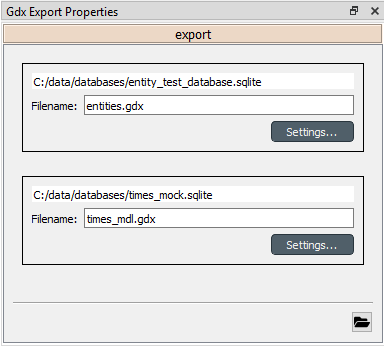
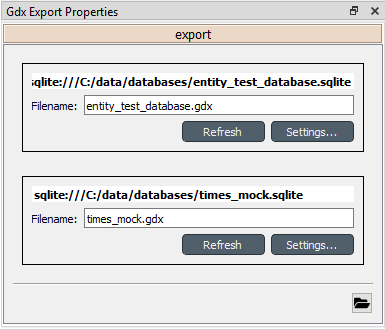
Update User Guide
Removed sections about installation of GAMS Python bindings as these are
not necessary anymore. Updated the Importing and exporting data page to
reflect some additional changes in *Gdx Export*.

Re #429

Changed region(s): [[0.0, 0.0, 1.0, 1.0], [0.0625, 0.4848, 0.9375, 0.5152]]

diff --git a/docs/source/data_import_export.rst b/docs/source/data_import_export.rst
@@ -59,8 +59,8 @@ and forwards file paths to project items downstream.
 If a *Tool* is to use such a file, remember to add the file as one of the *Tool specification*'s input files!
 
 .. note::
-   You need to have GAMS Python bindings installed to use this functionality.
-   See :ref:`here <GAMS Python bindings>` for more information on how to install the bindings.
+   You need to have GAMS installed to use this functionality.
+   However, you do not need to own a GAMS license as the demo version works just as well.
 
 The mapping between a database and GAMS is as follows:
 
@@ -91,8 +91,9 @@ The image below shows the settings tab of *Gdx Export* with two *Data Sources* c
    :align: center
 
 For each connected *Data Store* a box with the database's path and export file name field is shown on the tab.
-The *Settings* buttons open *Gdx Export settings* windows to further edit database specific export parameters
+The *Settings...* buttons open *Gdx Export settings* windows to further edit database specific export parameters
 such as the order in which entities are exported from the database.
+The *Refresh* button tells *Gdx Export* to update the settings in case the database has been modified.
 
 .. image:: img/gdx_export_settings_window.png
    :align: center
